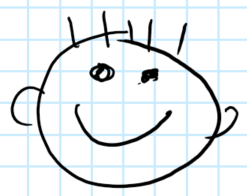
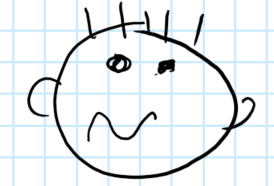
Smiley nicht mehr freundlich

diff --git a/NeHTMLDatei.html b/NeHTMLDatei.html
@@ -3,7 +3,7 @@
   <Title>Heute HTML</Title>
 </head>
 <body>
-Hier steht nur Gutes.
+Hier auch mal Schlechtes.
 <p/>
 <img src="smiley.png"/>
 </body>
